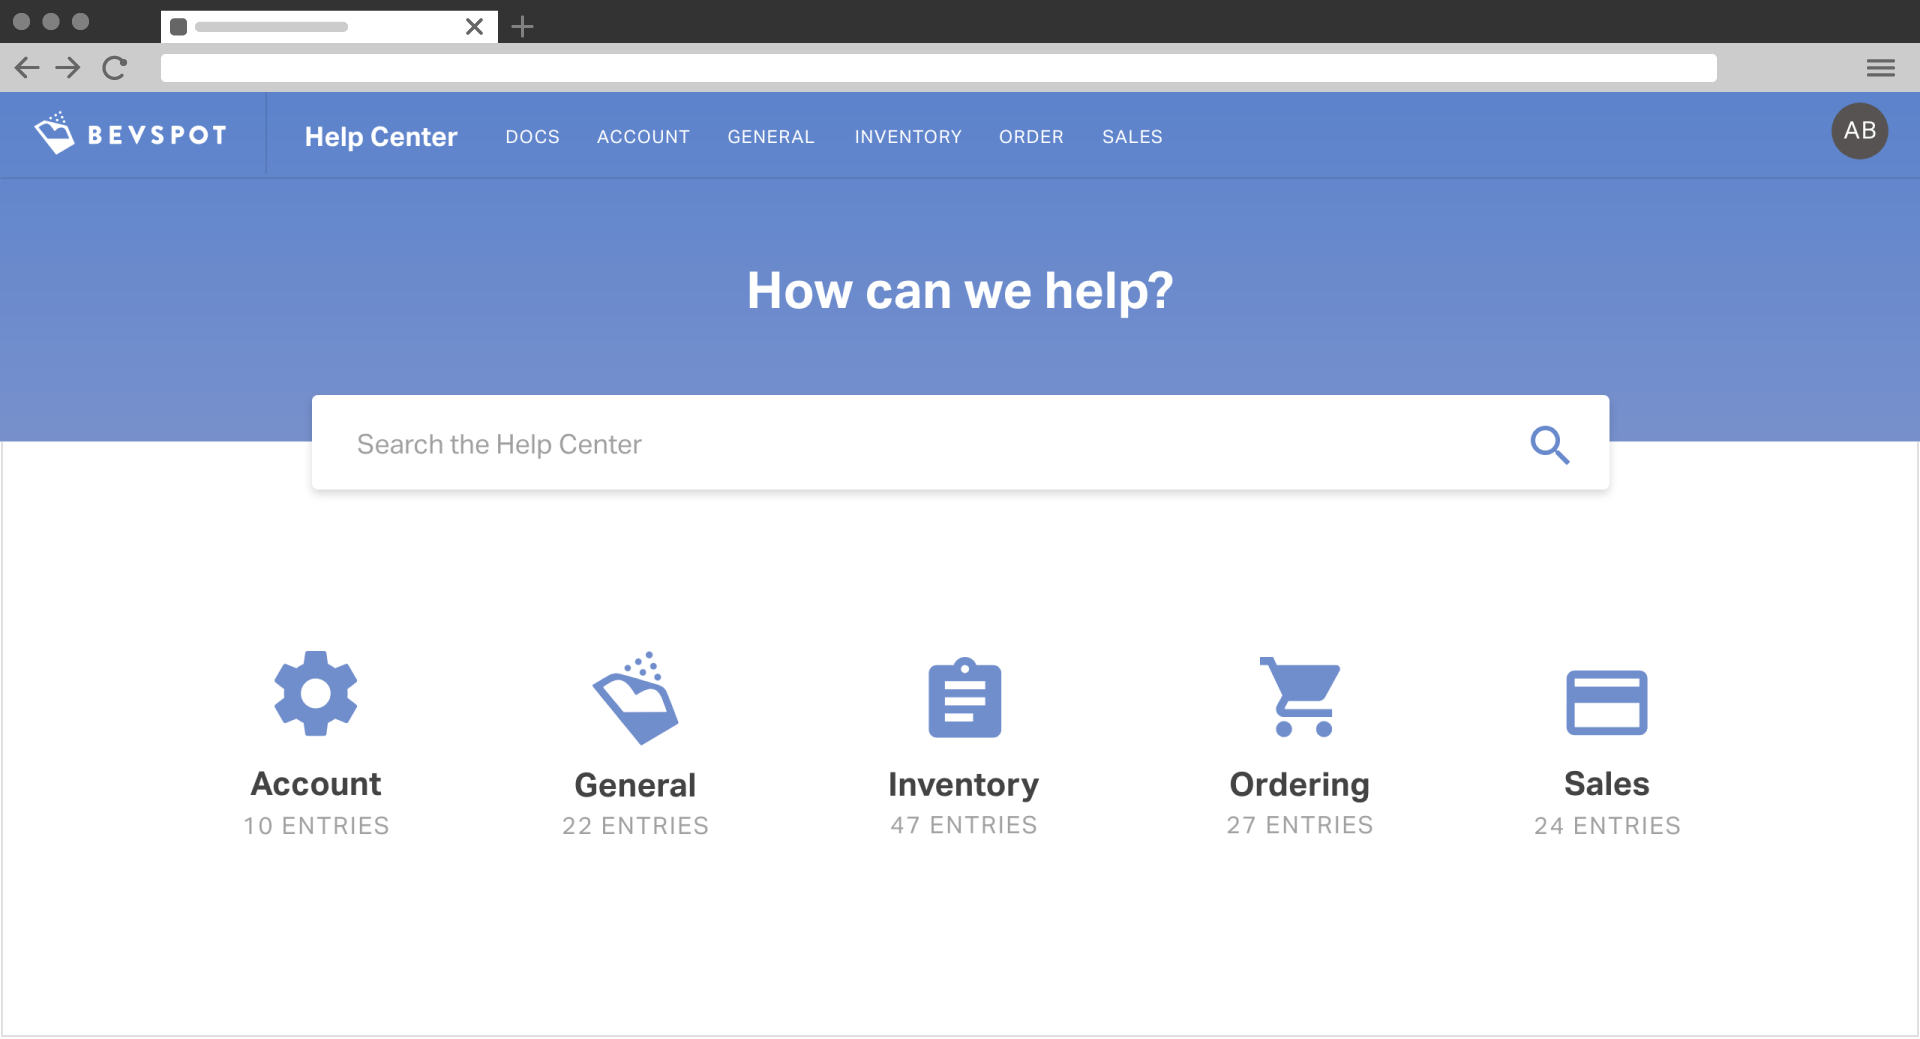
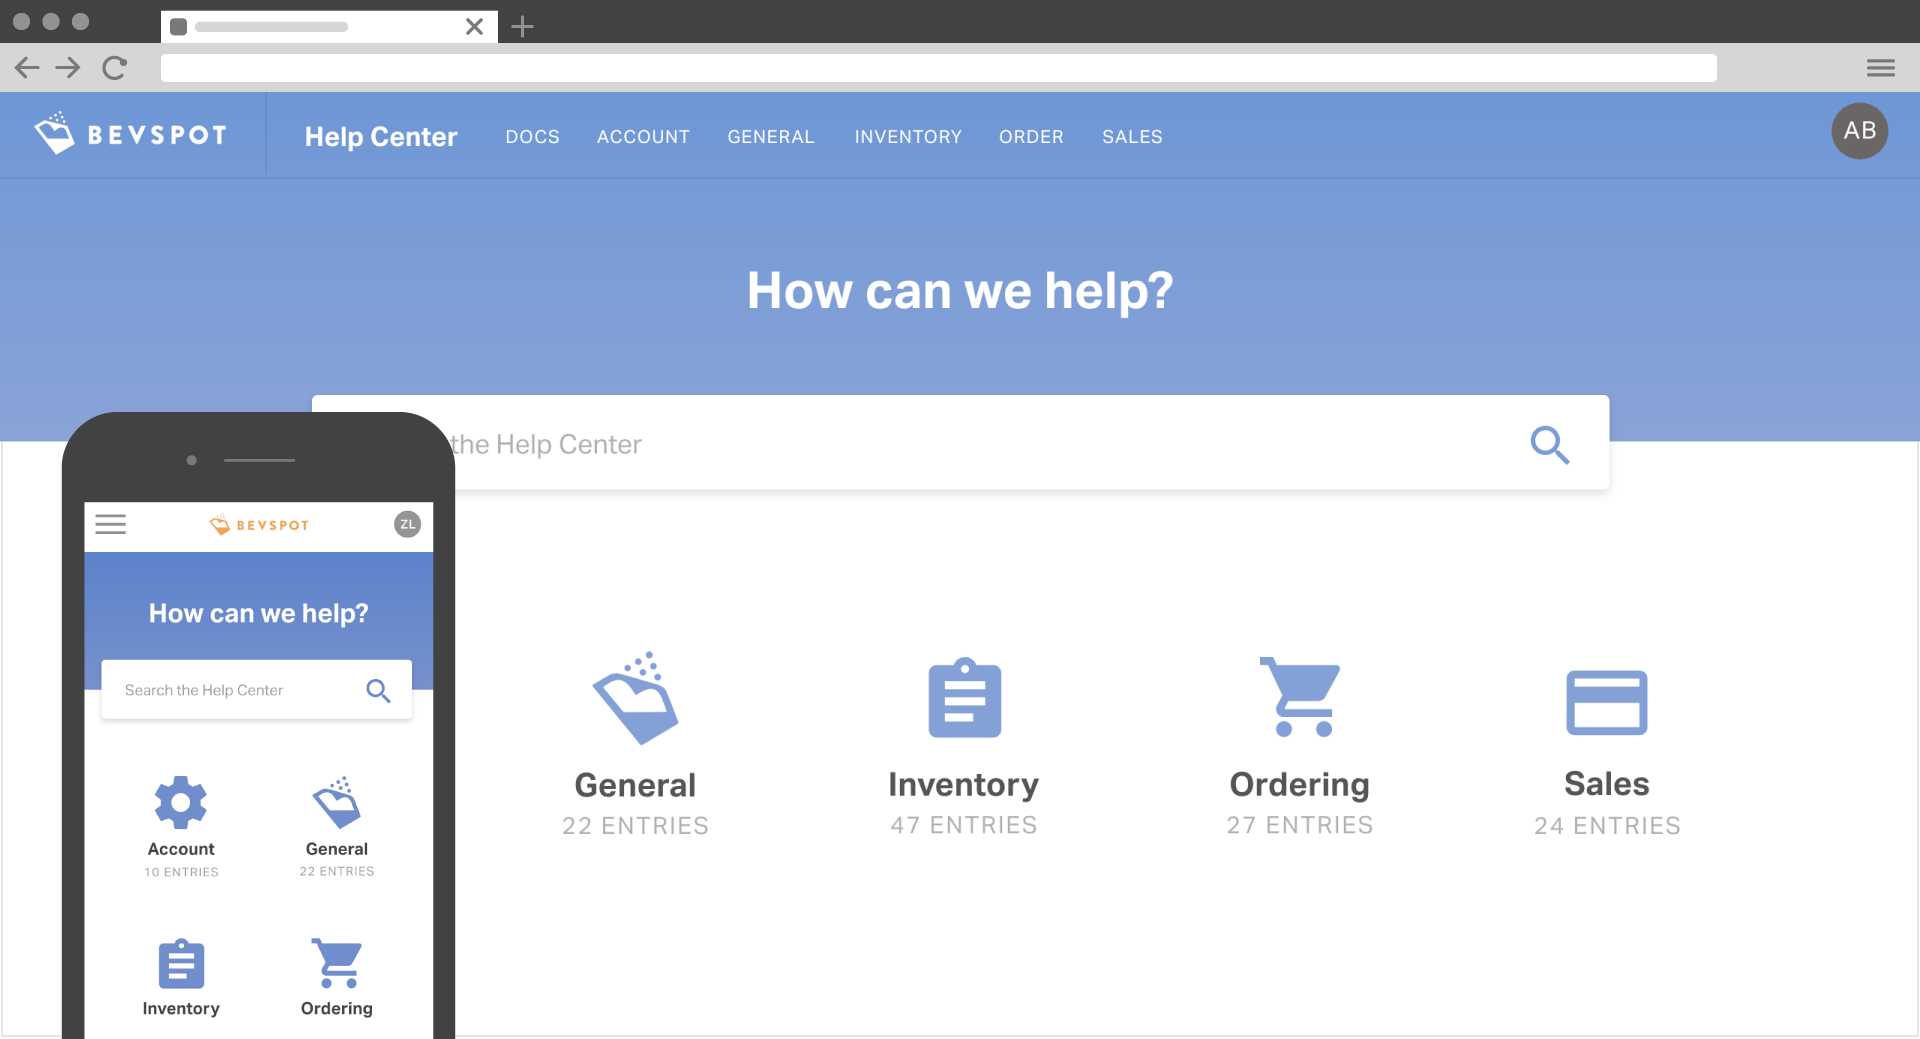
BevSpot initial commit

Changed region(s): [[0.0312, 0.3696, 0.25, 1.0]]

diff --git a/bevspot.html b/bevspot.html
@@ -1,0 +1,290 @@
+<!doctype html>
+<html lang="en">
+<head>
+    <meta charset="utf-8">
+    <title>Zack Labadie | BevSpot</title>
+    <link rel="stylesheet" href="https://use.typekit.net/vxr5wxk.css">
+    <link rel="stylesheet" href="normalize.css" />
+    <link rel="stylesheet" href="style.css" />
+    <meta name="viewport" content="width=device-width, minimum-scale=1, initial-scale=1" />
+    <script type="text/javascript" src="js/jquery-3.2.1.js"></script>
+    <!-- <script src="https://cdn.jsdelivr.net/npm/typeit@5.4.1/dist/typeit.min.js"></script> -->
+    <script type="text/javascript" src="js/index.js"></script>
+
+    <link rel="apple-touch-icon" sizes="180x180" href="favicons/apple-touch-icon.png">
+    <link rel="icon" type="image/png" sizes="32x32" href="favicons/favicon-32x32.png">
+    <link rel="icon" type="image/png" sizes="16x16" href="favicons/favicon-16x16.png">
+    <link rel="manifest" href="favicons/manifest.json">
+    <link rel="mask-icon" href="favicons/safari-pinned-tab.svg" color="#000000">
+    <link rel="shortcut icon" href="favicons/favicon.ico">
+    <meta name="msapplication-config" content="favicons/browserconfig.xml">
+    <meta name="theme-color" content="#ffffff">
+</head>
+
+
+<body id="bevspot">
+    <nav>
+        <div id="nav-links">
+            <a href="index.html#work">work</a>
+            <a href="index.html#bio">bio</a>
+        </div>
+        <div id="nav-monogram">
+            <a href="index.html#welcome">
+                <img src="images/icons/monogram.svg">
+            </a>
+        </div>
+        <div id="nav-icons">
+            <a href="files/ZackLabadie-Resume.pdf" target="_blank">
+                <img src="images/icons/download.svg">
+            </a>
+            <a href="mailto:hello@zacklabadie.com">
+                <img src="images/icons/mail.svg">
+            </a>
+        </div>
+    </nav>
+    <div class="work-hero">
+        <img src="images/bevspot/bevspot-hero.png" alt="BevSpot Help Center page">
+    </div>
+    <div class="work-wrapper">
+        <div class="project-brief">
+            <div class="brief-intro">
+                <h1>BevSpot</h1>
+                <h4>Examples of projects completed for the Boston startup that's revolutionizing how bars and restaurants do business</h4>
+            </div>
+            <div class="brief-goal">
+                <h6>goal</h6>
+                <p>Contribute to a small, agile product team working to evolve its flagship software while growing brand awareness through various channels to expand top-of-funnel lead generation.</p>
+            </div>
+            <div class="brief-skills">
+                <h6>skills</h6>
+                <ul>
+                    <li>Product design</li>
+                    <li>Web design</li>
+                    <li>WordPress development</li>
+                    <li>Wireframing</li>
+                    <li>A/B testing</li>
+                    <li>Email design</li>
+                    <li>Email development</li>
+                    <li>Animation</li>
+                    <li>Whitepaper design</li>
+                </ul>
+            </div>
+            <div class="brief-date">
+                <h6>date</h6>
+                <p>2016-2017</p>
+            </div>
+        </div>
+        <div class="rule">
+            <hr>
+        </div>
+        <div class="work-section">
+            <div class="full-flex work-text">
+                <h5>Help Center</h5>
+                <div class="work-columns">
+                    <p>One of my most high-value projects while at BevSpot was designing and developing a public help center. Before the Help Center, every new user was personally onboarded over the phone with a Customer Success representative. As BevSpot continued growing its userbase, it was crucial that a knowledge base full of tips and documentation existed for users who self-onboarded or needed assistance outside normal business hours. This would not only be beneficial to users, but hopefully increase BevSpot customer retention and organic customer growth.</p>
+                    <!-- <p>I worked closely with Customer Success team members to gain insights on the established onboarding process and find out what common stumbling blocks existed. The Help Center articles would be written and maintained by Customer Success team members, so determining the format(s), grouping, and hierarchy of information was a collaborative process.</p>
+                    <p>I chose to organize Help Center content around the six core sections of the BevSpot web app. Each of these sections would have their own Help Center page complete with a detailed overview of the section, featured articles (selected by Customer Success), and a list of articles organized by subcategory. Search was also implemented, allowing specific articles to be found with minimum friction.</p>
+                    <p>Once high-fidelity mockups were finalized, I began development. The Help Center was developed as its own custom WordPress theme within the BevSpot public site. Fully responsive page templates were developed for the Help Center homepage, category pages, overview pages, and basic articles. Each was designed and developed for dynamic content with considerations for breadcrumb navigation, videos, section breaks, various header styles,  author information, and related links. This system design approach ensured that the Help Center could evolve and adapt over time with minimal upkeep.</p> -->
+                </div>
+            </div>
+            <div class="full-flex work-img new-row">
+                <img src="images/bevspot/help-home-both.png">
+            </div>
+        </div>
+        <div class="rule light">
+            <hr>
+        </div>
+        <div class="work-section">
+            <div class="half-flex work-text left">
+                <h5>Research</h5>
+                <div class="work-columns">
+                    <p>With a direction in mind, I began researching precedents. I purchased over a dozen leading (design-forward) independent magazines, analyzing content, stylistic choices, and medium-specific nuances perhaps otherwise taken for granted. I then did the same with online longform publishers and immersive web&nbsp;experiences.</p>
+                    <p>I found that many “digital magazines” are in fact either content-rich blogs or lifeless PDF scans of  print publications. If Compile was to be successful, it would need to convey the confidence, creativity, and quality of print magazines while embracing its digital medium by leveraging the immersiveness and interactivity of modern web&nbsp;design.</p>
+                </div>
+            </div>
+            <div class="half-flex work-img">
+                <img src="images/compile/research.png">
+            </div>
+        </div>
+        <div class="rule light">
+            <hr>
+        </div>
+        <div class="work-section">
+            <div class="half-flex work-img">
+                <img src="images/compile/content.png">
+            </div>
+            <div class="half-flex work-text right">
+                <h5>Content</h5>
+                <div class="work-columns">
+                    <p>Content collection was an ongoing effort throughout the project lifecycle. I decided early on that curating magazine content using pre-existing media would be the most feasible and enjoyable way to source content.</p>
+                    <p>The theme for Compile 001 would be Time. I kept a spreadsheet of potential content sources which acted as an editable overview for the magazine, allowing me to easily rearrange content and assure I included a variety of media types. My goal was to amass enough interesting content to engage users for at least 30 minutes from start to&nbsp;finish.</p>
+                </div>
+            </div>
+        </div>
+        <div class="rule light">
+            <hr>
+        </div>
+        <div class="work-section">
+            <div class="half-flex work-text left">
+                <h5>Wireframes</h5>
+                <div class="work-columns">
+                    <p>I drew out the general information architecture for Compile leaning heavily on the familiar experience of flipping through a print magazine. I decided that curation would be most effective if content had an intentional progression, but also wanted to give users the option to casually hop from article to&nbsp;article.</p>
+                    <p>I then drew rough wireframes considering the user flow throughout each issue. Each sketch was made into both graybox and high-fidelity wireframes using&nbsp;Sketch.</p>
+                </div>
+            </div>
+            <div class="half-flex work-img">
+                <img src="images/compile/wireframes-1.png">
+            </div>
+            <div class="half-flex work-img new-row">
+                <img src="images/compile/wireframes-2.png">
+            </div>
+            <div class="half-flex work-img new-row">
+                <img src="images/compile/wireframes-3.png">
+            </div>
+        </div>
+        <div class="rule light">
+            <hr>
+        </div>
+        <div class="work-section">
+            <div class="full-flex work-text">
+                <h5>Visual design</h5>
+                <div class="work-columns">
+                    <p>One of the core motivations for Compile was to break out of the standardized layout shared by most blogs, instead giving each article a unique design treatment that could amplify or recontextualize the themes and tones within. <a href="https://pitchfork.com/features/cover-story/reader/majical-cloudz/" target="_blank">Pitchfork</a> and <a href="https://www.nytimes.com/interactive/2018/01/27/technology/social-media-bots.html" target="_blank">The New York Times</a> succeed in this with many of their longform editorials and interactive&nbsp;features.</p>
+                    <p>To emphasize the uniqueness of each piece of content, I designed each "article" using a unique layout, font pairing, palette, and graphic style. With the exception of found photography, all graphic elements and compositions are my own. I encourage you to see them in&nbsp;context.</p>
+                </div>
+            </div>
+            <div class="full-flex work-img new-row">
+                <video autoplay loop muted>
+                    <source type="video/mp4" src="images/hero-images/compile.mp4">
+                </video>
+            </div>
+            <div class="half-flex work-img new-row">
+                <img src="images/compile/visuals-1.png">
+            </div>
+            <div class="half-flex work-img new-row border">
+                <img src="images/compile/visuals-2.png">
+            </div>
+            <div class="full-flex work-img new-row">
+                <img src="images/compile/visuals-3.png">
+            </div>
+            <div class="half-flex work-img new-row">
+                <img src="images/compile/visuals-4.png">
+            </div>
+            <div class="half-flex work-img new-row">
+                <img src="images/compile/visuals-5.png">
+            </div>
+            <div class="full-flex work-img new-row">
+                <video autoplay loop muted>
+                    <source type="video/mp4" src="images/compile/visuals-6.mp4">
+                </video>
+            </div>
+        </div>
+        <div class="rule light">
+            <hr>
+        </div>
+        <div class="work-section">
+            <div class="half-flex work-img">
+                <img src="images/compile/ui-1.png">
+            </div>
+            <div class="half-flex work-text right">
+                <h5>UI design</h5>
+                <div class="work-columns">
+                    <p>Every issue of Compile is presented as a single long-scrolling experience where each article blends into the next. The table of contents acts as a potential jumping off point for users looking for a specific piece of content. A fixed timeline on the left edge of the browser window acts as condensed table of contents, encouraging&nbsp;exploration.</p>
+                    <p>The icons used throughout Compile are intentionally simplistic, letting the content take center stage. The top-left Compile icon links to the site's landing page while the top-right icon scrolls the page back to the start of the&nbsp;issue.</p>
+                </div>
+            </div>
+            <div class="two-thirds-flex work-img new-row border">
+                <img src="images/compile/ui-2.png">
+            </div>
+            <div class="two-thirds-flex one-third-left work-img new-row">
+                <img src="images/compile/ui-3.png">
+            </div>
+        </div>
+        <div class="rule light">
+            <hr>
+        </div>
+        <div class="work-section">
+            <div class="half-flex work-text left">
+                <h5>Branding & identity</h5>
+                <div class="work-columns">
+                    <p>I knew from the outset that I wanted Compile to be weird, expressive, and (if possible) darkly humorous. In short, I wanted to make something that I would give my attention to if I stumbled across it online.</p>
+                    <p>I saved the Compile identity for the tail end of my design process so that content collection and article design could be guided by a brand but uninhibited by a visual identity. This allowed me to create the bulk of the first issue, then use it as inspiration for an authentic wordmark and identity.</p>
+                    <p>I ultimately made the Compile wordmark by manipulating type using a scanner. I felt that this conveyed the subversive nature of the brand and embodied of the relationship between humans and technology that the publication focuses on.
+                    </p>
+                </div>
+            </div>
+            <div class="half-flex work-img">
+                <img src="images/compile/brand-1.jpg">
+            </div>
+            <div class="full-flex work-img new-row">
+                <img src="images/compile/brand-2.png">
+            </div>
+            <div class="two-thirds-flex work-img new-row" id="compile-logo">
+                <img src="images/compile/brand-3.png">
+            </div>
+            <div class="full-flex work-img new-row">
+                <img src="images/compile/brand-4.png">
+            </div>
+        </div>
+        <div class="rule light">
+            <hr>
+        </div>
+        <div class="work-section">
+            <div class="half-flex work-img">
+                <img src="images/compile/process.jpg">
+            </div>
+            <div class="half-flex work-text right">
+                <h5>Process book</h5>
+                <div class="work-columns">
+                    <p>In addition to fully curating, designing, and developing Compile, I made a 68-page hand-bound process book. The book contains a detailed step-by-step overview of my 14-week design process. If you're interested, you can <a href="https://drive.google.com/open?id=1L_3rR7CIHF5okG2zsqTFsUYbpYA_EIBI" target="_blank">download a PDF version</a>.</p>
+                </div>
+            </div>
+        </div>
+        <div class="project-link end-link">
+            <a href="http://wtfiscompile.xyz/" target="_blank" >Explore the Compile demo</a>
+        </div>
+        <div class="rule" style="margin-bottom: 0;">
+            <hr>
+        </div>
+        <div class="work-text other-work">
+            <h6>More projects</h6>
+            <h5 class="bevspot-link">
+                <a href="coming-soon.html">BevSpot</a>
+            </h5>
+            <h5 class="lasso-link">
+                <a href="coming-soon.html">Lasso</a>
+            </h5>
+            <h5 class="reframe-link">
+                <a href="coming-soon.html">Reframing Foster Care</a>
+            </h5>
+            <h5 class="reclaim-link">
+                <a href="coming-soon.html">Reclaim the Kitchen</a>
+            </h5>
+        </div>
+
+
+
+
+    </div>
+    <footer>
+        <a href="https://www.linkedin.com/in/zacklabadie/" target="_blank">
+            <img src="images/icons/linked-in.svg" alt="LinkedIn">
+        </a>
+        <a href="https://github.com/zacklabadie" target="_blank">
+            <img src="images/icons/github.svg" alt="GitHub">
+        </a>
+        <a href="https://medium.com/@zacklabadie" target="_blank">
+            <img src="images/icons/medium.svg" alt="Medium">
+        </a>
+        <a href="https://www.facebook.com/labadie.z" target="_blank">
+            <img src="images/icons/facebook.svg" alt="Facebook">
+        </a>
+        <a href="https://www.instagram.com/zacklabadie/" target="_blank">
+            <img src="images/icons/instagram.svg" alt="Instagram">
+        </a>
+        <a href="https://open.spotify.com/user/zacklabadie" target="_blank">
+            <img src="images/icons/spotify.svg" alt="Spotify">
+        </a>
+        <!-- <span>Zack made this site. 2018.</span> -->
+    </footer>
+</body>

diff --git a/style.css b/style.css
@@ -364,6 +364,9 @@ nav a{
 }
 .work-hero{
     height: 100vh;
+    width: 100vw;
+    padding-top: 50px;
+    box-sizing: border-box;
 }
 .project-brief{
     display: grid;
@@ -455,6 +458,9 @@ nav a{
     width: 100%;
     margin: 3em 0;
 }
+.work-section > div{
+    box-sizing: border-box;
+}
 .work-wrapper .rule{
     margin: 6em 0;
 }
@@ -486,11 +492,11 @@ nav a{
     width: 66%
 }
 .half-flex, .other-work h5{
-    width: 48%;
+    width: 50%;
     box-sizing: border-box;
 }
 .one-third-flex{
-    width: 33%
+    width: 33%;
 }
 .new-row{
     margin-top: 3em;
@@ -512,10 +518,10 @@ nav a{
     page-break-inside: avoid;
 }
 .right{
-    padding-left: 2em;
+    padding-left: 3.5em;
 }
 .left{
-    padding-right: 2em;
+    padding-right: 3.5em;
 }
 .one-third-left{
     margin-left: 33%;
@@ -561,15 +567,24 @@ nav a{
 }
 
 /***** Work : Project specific sections *****/
-#compile{
-    margin-top:
-}
 #compile .work-hero{
     background: url('images/compile/compile-hero.jpg');
     background-position: bottom left;
     background-size: cover;
-    min-height: 100vh;
-    min-width: 100vw;
+}
+#bevspot .work-hero{
+    background-color: #464f75;
+    display: flex;
+    flex-direction: row;
+    justify-content: center;
+    padding: 100px 50px 50px 50px;
+    overflow: hidden;
+}
+#bevspot .work-hero img{
+    max-width: 100%;
+    height: auto;
+    max-height: 100%;
+    align-self: center;
 }
 #compile .project-link a{
     background-color: #CBFF00;
@@ -800,6 +815,14 @@ footer span{
     .new-row{
         margin-top: 2.5em;
     }
+    #bevspot .work-hero{
+        justify-content: flex-end;
+    }
+    #bevspot .work-hero img{
+        max-width: none;
+        width: auto;
+        height: 100%;
+    }
 
 }
 @media (max-width: 600px){
@@ -908,4 +931,7 @@ footer span{
     .new-row{
         margin-top: 2em;
     }
+    /* #bevspot .work-hero img{
+        height: 100%;
+    } */
 }
